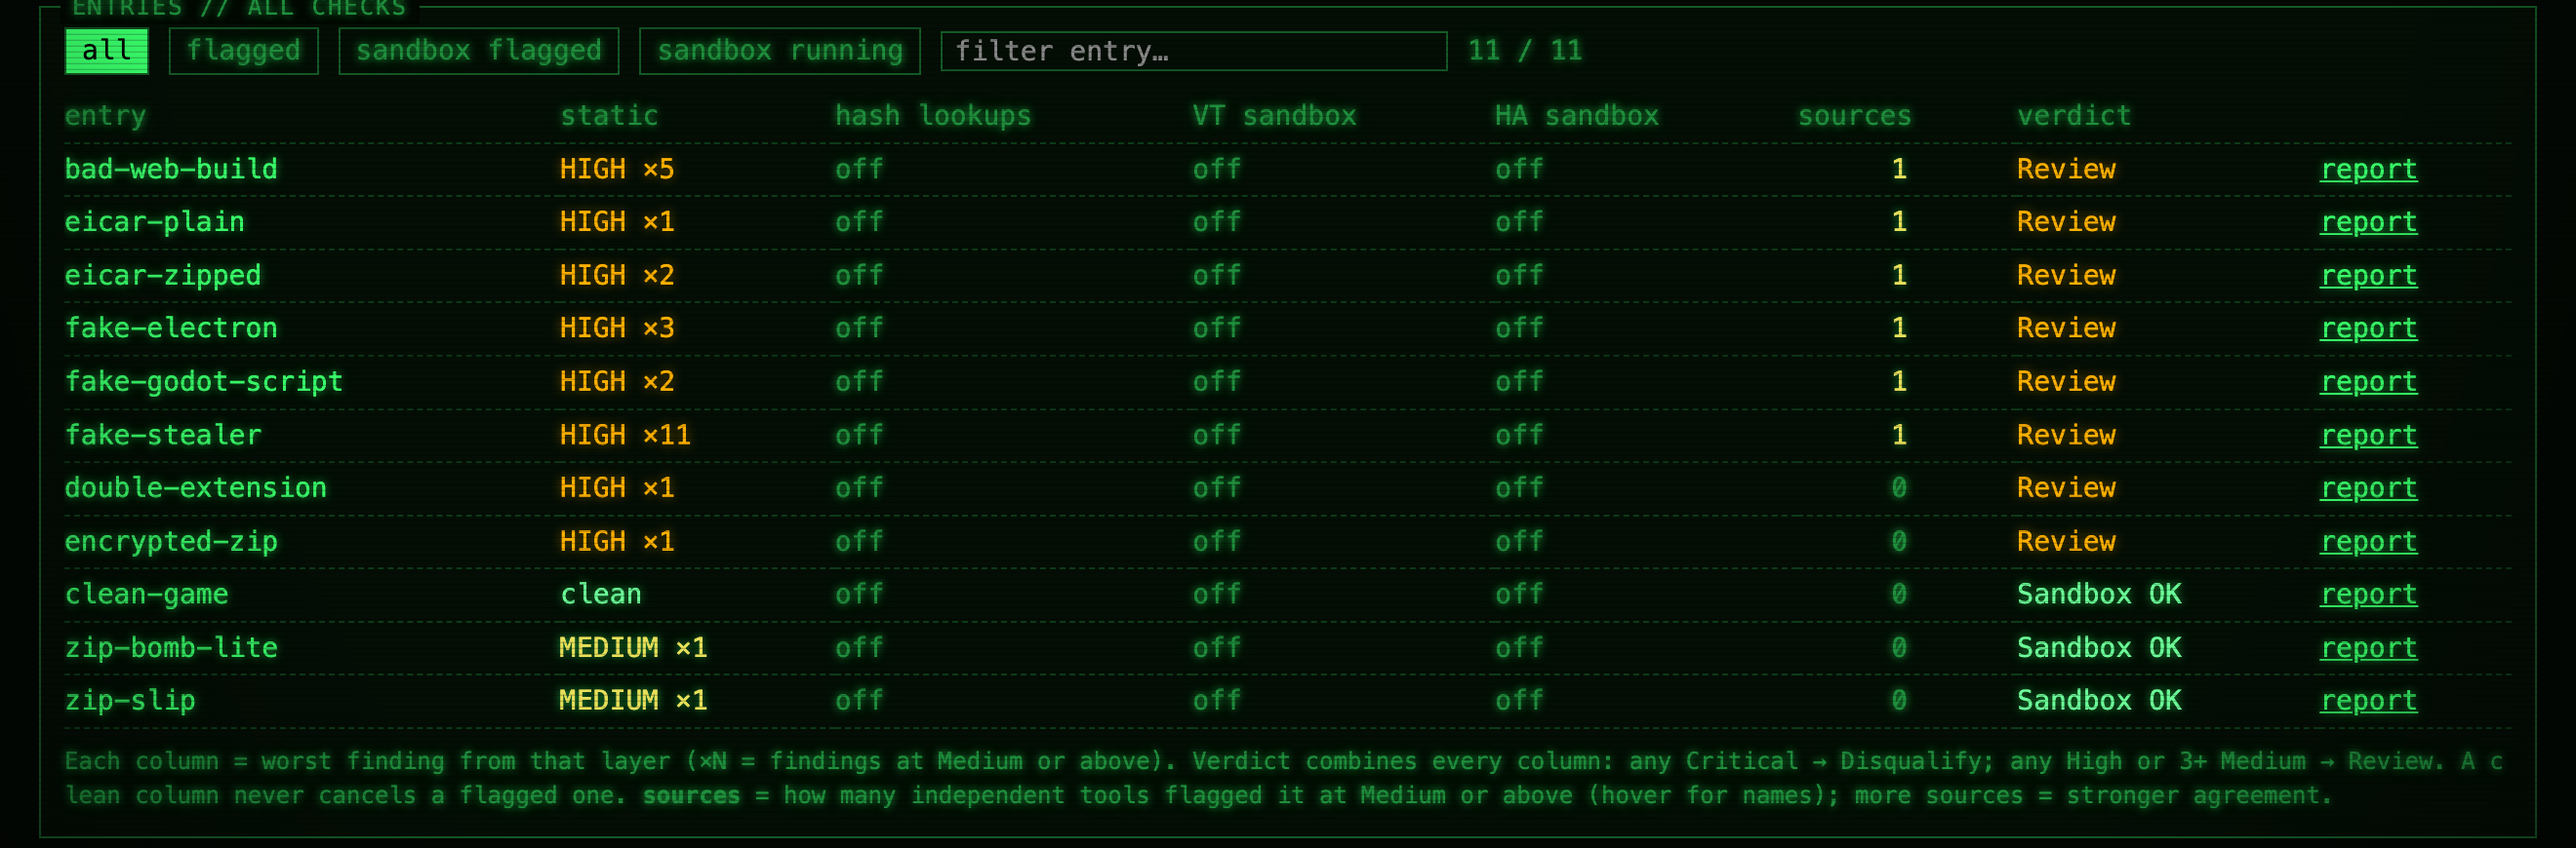
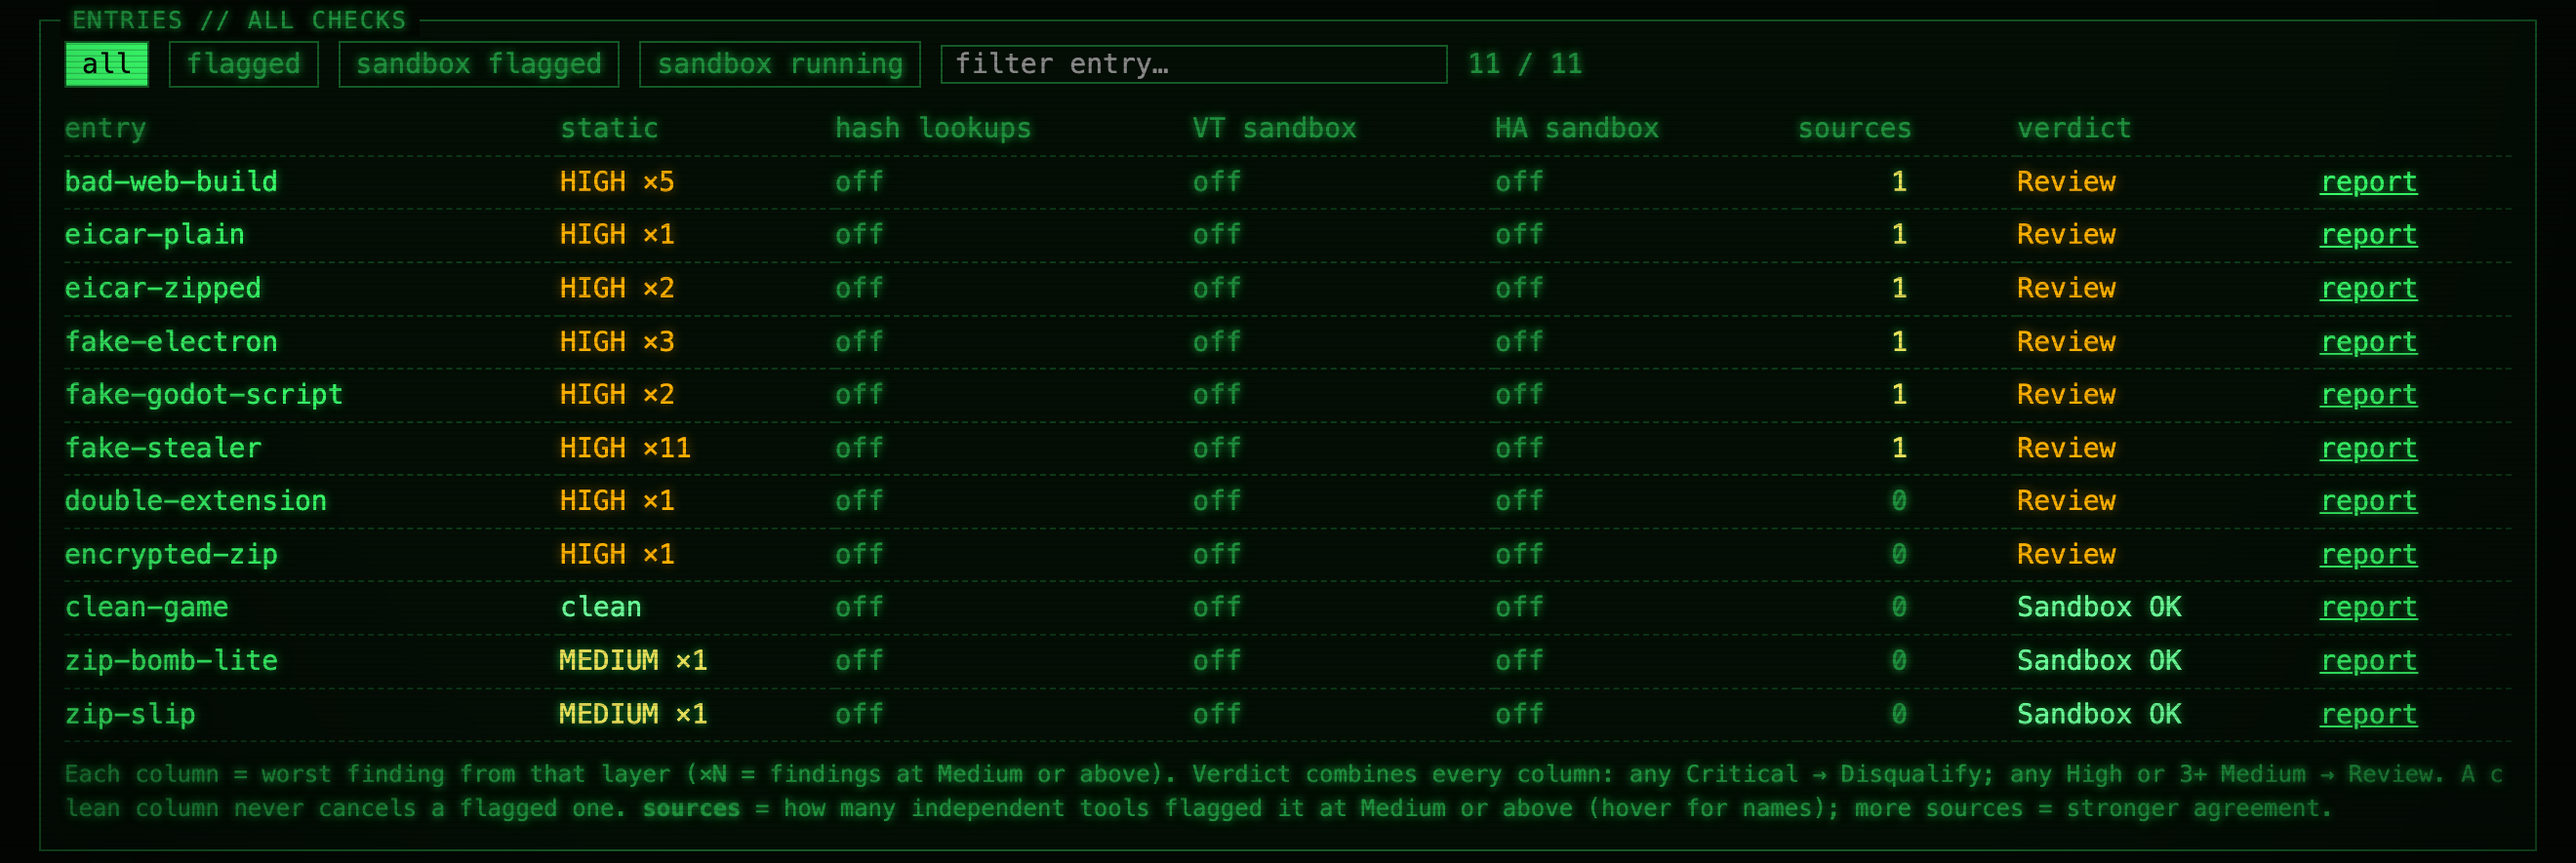
chore(name): Renamed to SentiJam

diff --git a/jamtriage/web/index.html b/jamtriage/web/index.html
@@ -3,7 +3,7 @@
 <head>
 <meta charset="utf-8">
 <meta name="viewport" content="width=device-width, initial-scale=1">
-<title>Jam Triage</title>
+<title>SentiJam</title>
 <link rel="stylesheet" href="https://cdn.jsdelivr.net/npm/@webtui/css@0.1.10/dist/full.css">
 <style>
   :root {
@@ -81,7 +81,7 @@
 <div class="grid">
   <section class="panel">
     <header class="bar">
-      <span class="title">JAM-TRIAGE // <span id="state">CONNECTING</span><span class="cursor"></span></span>
+      <span class="title">SENTIJAM // <span id="state">CONNECTING</span><span class="cursor"></span></span>
       <span class="muted">elapsed <span id="elapsed">-</span></span>
       <span class="muted">eta <span id="eta">-</span></span>
       <span>now: <span id="current">-</span></span>

diff --git a/jamtriage/report.py b/jamtriage/report.py
@@ -270,7 +270,7 @@ def write_manifest(results: list[dict], path: Path) -> int:
 
 HTML = """<!doctype html>
 <html lang="en"><head><meta charset="utf-8"><meta name="viewport" content="width=device-width, initial-scale=1">
-<title>Jam triage report</title>
+<title>SentiJam report</title>
 <style>
 :root{--bg:#0b0f0b;--fg:#cfe8cf;--dim:#7c937c;--line:#1e2a1e;--crit:#ff5c5c;--high:#ffb347;--med:#e6d35a;--low:#8fd18f;--info:#7c937c;--card:#101710}
 @media (prefers-color-scheme: light){:root{--bg:#f7faf7;--fg:#142014;--dim:#5b6e5b;--line:#d5e0d5;--card:#ffffff;--crit:#b3261e;--high:#b35c00;--med:#8a7a00;--low:#2e7d32;--info:#5b6e5b}}
@@ -284,7 +284,7 @@ th{color:var(--dim);font-weight:500} .wrap{overflow-x:auto}
 section.entry{background:var(--card);border:1px solid var(--line);padding:12px 16px;margin:16px 0}
 code,.mono{word-break:break-all} .dim{color:var(--dim)} details summary{cursor:pointer;color:var(--dim)}
 </style></head><body>
-<h1>Jam triage report</h1>
+<h1>SentiJam report</h1>
 <p class="dim">Generated {{ generated }} · platform {{ versions.platform or "?" }} · {{ results|length }} entries.
 Suggested verdicts only: you make the final call. "Not found" means unknown, not clean.</p>
 <h2>Summary</h2>

diff --git a/jamtriage/scoring.py b/jamtriage/scoring.py
@@ -200,9 +200,9 @@ def verdict(findings: list[Finding], has_web: bool) -> tuple[str, list[Finding]]
 SOURCE_GROUPS = {
     "clamav": "ClamAV", "defender": "Microsoft Defender", "mdatp": "Microsoft Defender",
     "yara": "YARA rules", "capa": "capa",
-    "strings": "jam-triage rules", "code": "jam-triage rules", "pe": "jam-triage rules",
-    "engine": "jam-triage rules", "web": "jam-triage rules", "unwrap": "jam-triage rules",
-    "diec": "jam-triage rules",
+    "strings": "SentiJam rules", "code": "SentiJam rules", "pe": "SentiJam rules",
+    "engine": "SentiJam rules", "web": "SentiJam rules", "unwrap": "SentiJam rules",
+    "diec": "SentiJam rules",
     "virustotal": "VirusTotal engines", "malwarebazaar": "MalwareBazaar", "metadefender": "MetaDefender",
     "virustotal-sandbox": "VirusTotal sandbox", "virustotal-behaviour": "VirusTotal sandbox",
     "hybrid-sandbox": "Hybrid Analysis sandbox", "hybrid-analysis": "Hybrid Analysis sandbox",

diff --git a/jamtriage/cli.py b/jamtriage/cli.py
@@ -1,4 +1,4 @@
-"""jam-triage command line: triage <command> [options]."""
+"""SentiJam command line: triage <command> [options]."""
 from __future__ import annotations
 
 import argparse
@@ -159,7 +159,7 @@ def cmd_dashboard(args) -> int:
 def build_parser() -> argparse.ArgumentParser:
     p = argparse.ArgumentParser(prog="triage", description="Malware triage for game jam submissions. "
                                 "Never executes a submission.")
-    p.add_argument("--version", action="version", version=f"jam-triage {__version__}")
+    p.add_argument("--version", action="version", version=f"SentiJam {__version__}")
     p.add_argument("--config", help="path to config.toml (default: ./config.toml)")
     p.add_argument("--platform", choices=["macos", "windows", "linux"], help="override OS detection")
     p.add_argument("--debug", action="store_true", help="print tracebacks for failing checks")

diff --git a/tests/test_pipeline.py b/tests/test_pipeline.py
@@ -255,7 +255,7 @@ def test_independent_sources_counts_vendors_not_rules():
              f("archive.encrypted", "high", "inventory"), f("av.vanished", "high", "hash"),
              f("clam", "critical", "clamav"), f("mp", "critical", "mdatp"), f("def", "critical", "defender")]
     assert independent_sources(found) == ["ClamAV", "Hybrid Analysis sandbox", "Microsoft Defender",
-                                          "VirusTotal engines", "VirusTotal sandbox", "jam-triage rules",
+                                          "SentiJam rules", "VirusTotal engines", "VirusTotal sandbox",
                                           "local antivirus"]
     assert independent_sources([f("x", "low", "yara"), f("lookups.pending", "medium", "lookups")]) == []
 

diff --git a/jamtriage/dashboard.py b/jamtriage/dashboard.py
@@ -310,7 +310,7 @@ def create_app(cfg: Config):
     from fastapi import FastAPI
     from fastapi.responses import FileResponse, JSONResponse
 
-    app = FastAPI(title="jam-triage", docs_url=None, redoc_url=None, openapi_url=None)
+    app = FastAPI(title="SentiJam", docs_url=None, redoc_url=None, openapi_url=None)
     state = State(cfg.state_db)
 
     @app.get("/api/status")

diff --git a/jamtriage/__init__.py b/jamtriage/__init__.py
@@ -1,2 +1,2 @@
-"""jam-triage: malware triage for game jam submissions. Never executes a submission."""
+"""SentiJam: malware triage for game jam submissions. Never executes a submission."""
 __version__ = "0.1.0"

diff --git a/jamtriage/lookups/services.py b/jamtriage/lookups/services.py
@@ -9,7 +9,7 @@ from datetime import datetime, timezone
 
 import requests
 
-USER_AGENT = "jam-triage/0.1"
+USER_AGENT = "SentiJam/0.1"
 TIMEOUT = 30
 
 

diff --git a/README.md b/README.md
@@ -2,7 +2,7 @@
 
 # SentiJam
 
-**Malware triage for game jam submissions.** jam-triage downloads every entry of an itch.io jam, inspects it **without ever running it**, and tells you which builds judges can play in a sandbox, which need a human look, and which should be disqualified, with the evidence for each.
+**Malware triage for game jam submissions.** SentiJam downloads every entry of an itch.io jam, inspects it **without ever running it**, and tells you which builds judges can play in a sandbox, which need a human look, and which should be disqualified, with the evidence for each.
 
 ![Python 3.12+](https://img.shields.io/badge/python-3.12%2B-3776AB?logo=python&logoColor=white)
 ![Platforms](https://img.shields.io/badge/platform-macOS%20%7C%20Windows%20%7C%20Linux-informational)
@@ -10,7 +10,7 @@
 ![License: MIT](https://img.shields.io/badge/license-MIT-blue)
 ![Status](https://img.shields.io/badge/status-hobby-orange)
 
-![jam-triage live dashboard](docs/screenshots/dashboard-overview.png)
+![SentiJam live dashboard](docs/screenshots/dashboard-overview.png)
 
 It doesn't prove a file is safe. It makes the obvious cases obvious, says plainly what it could *not* inspect, and leaves the final call to you.
 
@@ -20,9 +20,9 @@ It doesn't prove a file is safe. It makes the obvious cases obvious, says plainl
 
 Game jams ask judges to download and run dozens of executables from strangers. itch.io scans uploads, but scanning isn't perfect, and malware campaigns keep trading on itch.io's reputation: fake "test my game" pages, and fake "game update" comments that delivered Lumma Stealer.
 
-jam-triage is the middle layer of three:
+SentiJam is the middle layer of three:
 1. **Jam rules** keep risky formats out: web builds preferred, no installers, no password-protected archives.
-2. **jam-triage** checks every build before judging starts.
+2. **SentiJam** checks every build before judging starts.
 3. **Judges** run downloads only inside a disposable sandbox.
 
 ## Features
@@ -113,13 +113,13 @@ triage fetch-rules                   # YARA Forge core rules
 
 ```toml
 [tools.paths]
-diec = "~/jam-triage-tools/die_mac_portable/die.app/Contents/MacOS/diec"
-gdre = "~/jam-triage-tools/Godot RE Tools.app/Contents/MacOS/Godot RE Tools"
-capa = "~/jam-triage-tools/capa"
-7z   = "~/jam-triage-tools/7zip/7zz"
+diec = "~/sentijam-tools/die_mac_portable/die.app/Contents/MacOS/diec"
+gdre = "~/sentijam-tools/Godot RE Tools.app/Contents/MacOS/Godot RE Tools"
+capa = "~/sentijam-tools/capa"
+7z   = "~/sentijam-tools/7zip/7zz"
 ```
 
-**Windows:** `winget install 7zip.7zip Microsoft.DotNet.SDK.8`, plus the Windows builds of the tools above. Defender is built in. Run jam-triage **inside Windows Sandbox or a VM**.
+**Windows:** `winget install 7zip.7zip Microsoft.DotNet.SDK.8`, plus the Windows builds of the tools above. Defender is built in. Run SentiJam **inside Windows Sandbox or a VM**.
 
 **API keys** (all free) go in `.env`, which is git-ignored:
 
@@ -227,7 +227,7 @@ Run `triage selftest` after editing them.
 
 ## Acknowledgements
 
-jam-triage glues together excellent free tools. Please respect their licences and terms:
+SentiJam glues together excellent free tools. Please respect their licences and terms:
 [itch-dl](https://github.com/DragoonAethis/itch-dl) ·
 [VirusTotal](https://www.virustotal.com/) ·
 [MalwareBazaar](https://bazaar.abuse.ch/) ·
@@ -254,4 +254,4 @@ MIT. See [LICENSE](LICENSE).
 
 ## Disclaimer
 
-jam-triage is a triage aid, not an antivirus. It can miss malware and it can flag harmless games. Always keep judges' downloads inside a sandbox, and make the final call yourself.
+SentiJam is a triage aid, not an antivirus. It can miss malware and it can flag harmless games. Always keep judges' downloads inside a sandbox, and make the final call yourself.
